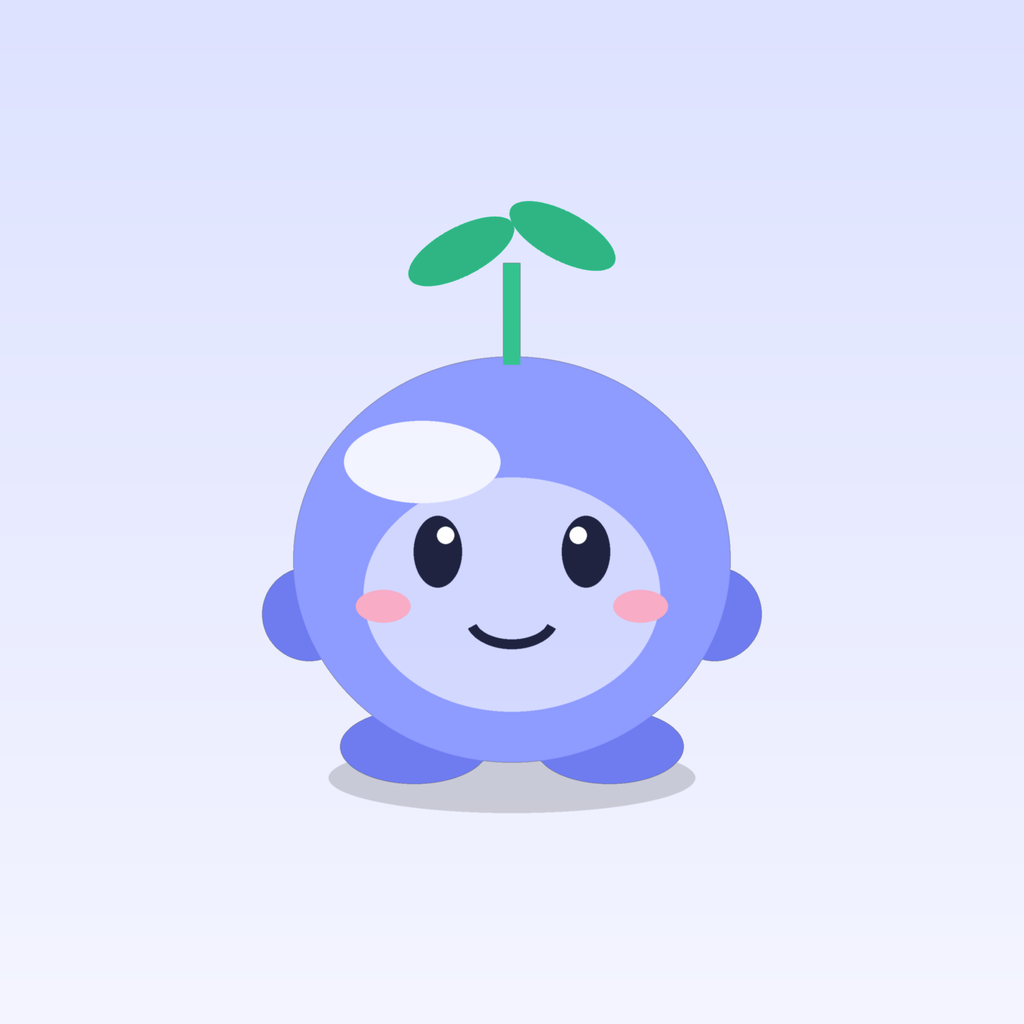
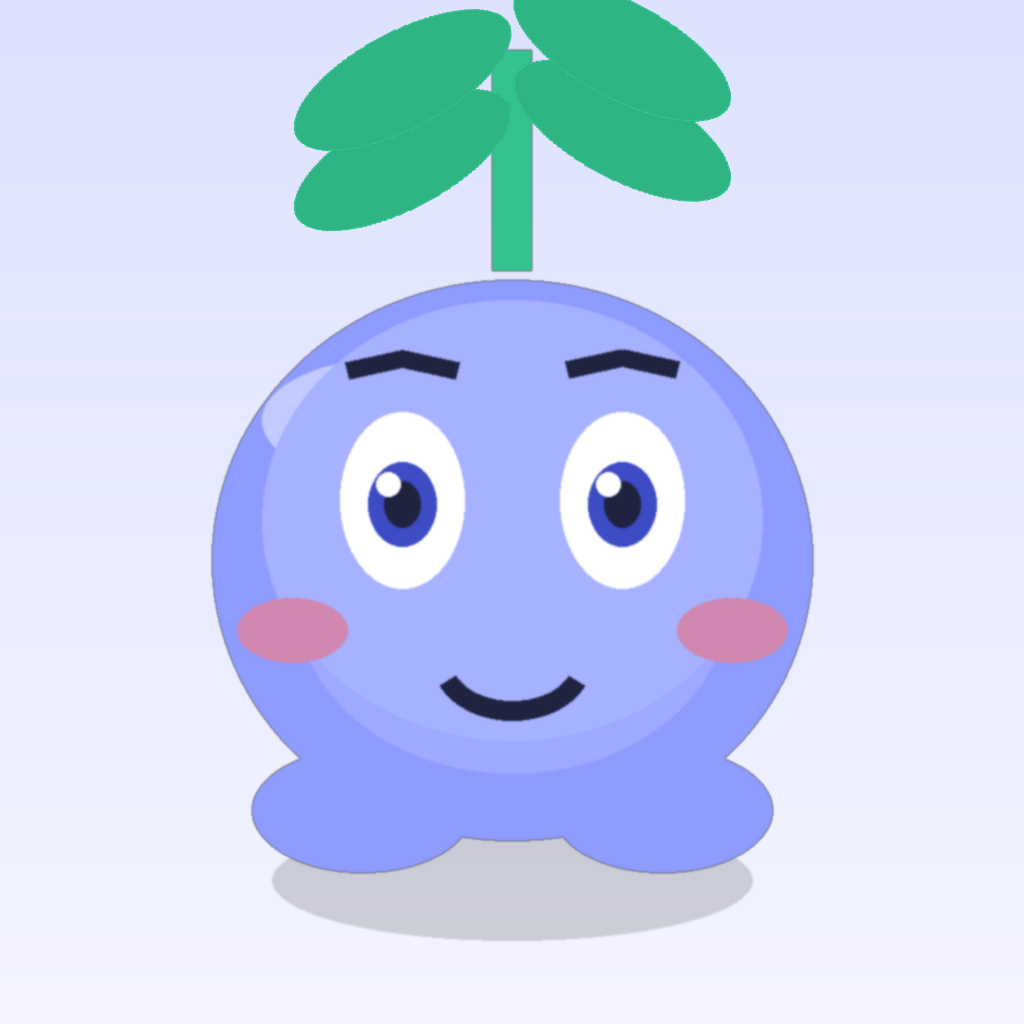
Phase 2: look-dev boards, branding finals, rig spec, third-party record

diff --git a/tools/make_logo.py b/tools/make_logo.py
@@ -1,0 +1,198 @@
+"""Milo logo + 2A look-dev reference mockups (PIL). The shipped character is the
+code-drawn v2 renderer; these PNGs are reference boards for the human's pick,
+approximating looks A/B/C in five expressions. Run: python tools/make_logo.py [--concept A|B|C]"""
+import math, os, sys
+from PIL import Image, ImageDraw, ImageFilter, ImageOps
+
+ROOT = os.path.dirname(os.path.dirname(os.path.abspath(__file__)))
+S = 1024
+BODY, INK, LEAF, STEM, IRIS = (142, 155, 255), (31, 35, 64), (47, 181, 132), (52, 195, 143), (61, 75, 196)
+BLUSH = (255, 122, 122)
+
+# look params: body rx/ry, eye scale, sprout length, legs?, cheek scale
+LOOKS = {'A': (300, 280, 1.0, 1.0, False, 1.0), 'B': (340, 250, 1.1, .55, False, 1.2), 'C': (260, 310, .95, 1.1, True, .9)}
+EXPRS = ['neutral', 'happy', 'curious', 'concerned', 'sleepy']
+
+def ell(d, cx, cy, rx, ry, fill):
+    d.ellipse((cx - rx, cy - ry, cx + rx, cy + ry), fill=fill)
+
+def rot_ell(img, cx, cy, rx, ry, ang, fill):
+    l = Image.new('RGBA', (rx * 2 + 8, ry * 2 + 8), (0, 0, 0, 0))
+    ImageDraw.Draw(l).ellipse((4, 4, rx * 2 + 4, ry * 2 + 4), fill=fill)
+    l = l.rotate(ang, expand=True, resample=Image.BICUBIC)
+    img.alpha_composite(l, (int(cx - l.width / 2), int(cy - l.height / 2)))
+
+def milo(look='A', expr='neutral', bg=None, px=S):
+    """Head-forward Milo with sprout, <=3 body tones + highlight, no text."""
+    brx, bry, es, sl, legs, ch = LOOKS[look]
+    img = Image.new('RGBA', (S, S), bg or (0, 0, 0, 0))
+    m = Image.new('RGBA', (S, S), (0, 0, 0, 0)); d = ImageDraw.Draw(m)
+    cx, cy = S // 2, 560
+    ell(d, cx, cy + bry + 40, brx - 60, 60, (0, 0, 0, 40))
+    if legs:
+        for sx in (-1, 1):
+            d.rounded_rectangle((cx + sx * 110 - 45, cy + bry - 60, cx + sx * 110 + 45, cy + bry + 90), 40, fill=BODY)
+            ell(d, cx + sx * 110, cy + bry + 90, 85, 50, BODY)
+    else:
+        for sx in (-1, 1):
+            ell(d, cx + sx * 150, cy + bry - 30, 110, 62, BODY)
+    ell(d, cx, cy, brx, bry, BODY)
+    ey = cy - 60
+    # Translucent shapes go on their own layer: ImageDraw *replaces* pixels,
+    # so drawing them on m would punch translucent holes to the background.
+    soft = Image.new('RGBA', (S, S), (0, 0, 0, 0)); ds = ImageDraw.Draw(soft)
+    ell(ds, cx, cy + 40, int(brx * .72), int(bry * .62), (178, 188, 255, 110))
+    ell(ds, cx - 120, cy - bry // 2, 130, 62, (255, 255, 255, 120))
+    ell(ds, cx, cy - 40, 250, 220, (255, 255, 255, 55))  # face patch
+    for sx in (-1, 1):
+        ell(ds, cx + sx * 220, ey + 130, 55 * ch, 32 * ch, BLUSH + (150,))
+    m.alpha_composite(soft)
+    eye_open = {'neutral': 1, 'happy': .25, 'curious': 1, 'concerned': .85, 'sleepy': .35}[expr]
+    for sx in (-1, 1):
+        ex = cx + sx * 110
+        if expr == 'happy':
+            d.arc((ex - 55, ey - 30, ex + 55, ey + 50), 195, 345, fill=INK, width=20)
+        else:
+            rx, ry = 62 * es, 80 * es * eye_open + 8
+            ell(d, ex, ey, rx, ry, (255, 255, 255, 255))
+            ell(d, ex, ey + 4, 34 * es, 36 * es * eye_open + 6, IRIS)
+            ell(d, ex, ey + 4, 18 * es, 19 * es * eye_open + 4, INK)
+            ell(d, ex - 14, ey - 16, 12, 12, (255, 255, 255, 255))
+            lid_h = 2 * ry * (1 - eye_open)
+            if lid_h > 2:  # curved lid, not a flat bar (flat reads stern)
+                ell(d, ex, ey - ry + lid_h * .45, rx * .98, lid_h * .55 + 8, BODY)
+    # brows: tapered arcs; inner = toward centre. concerned raises inner.
+    brow = {'neutral': (0, 0), 'happy': (-14, -6), 'curious': (-18, 6), 'concerned': (-2, -46), 'sleepy': (10, 6)}[expr]
+    for sx in (-1, 1):
+        ex = cx + sx * 110
+        outer = ey - 130 + brow[0] + (0 if sx > 0 else brow[1] if expr == 'curious' else 0)
+        inner = ey - 130 + brow[1] + (-36 if expr == 'curious' and sx > 0 else 0)
+        x0, x1 = (ex + 55, ex - 55) if sx > 0 else (ex - 55, ex + 55)
+        d.line((x0, outer, (x0 + x1) / 2, (outer + inner) / 2 - 12, x1, inner), fill=INK, width=18, joint='curve')
+    # mouth
+    my = ey + 170
+    if expr == 'happy':
+        d.pieslice((cx - 90, my - 60, cx + 90, my + 60), 10, 170, fill=(59, 30, 63, 255))
+        ell(d, cx, my + 30, 55, 22, (255, 143, 163, 255))
+    elif expr == 'concerned':
+        d.arc((cx - 70, my - 30, cx + 70, my + 50), 195, 345, fill=INK, width=18)
+    elif expr == 'sleepy':
+        d.line((cx - 45, my, cx + 45, my), fill=INK, width=16)
+    else:
+        d.arc((cx - 80, my - 70, cx + 80, my + 50), 25, 155, fill=INK, width=20)
+    # sprout: stem + two leaf pairs
+    top = cy - bry - 10
+    d.line((cx, top, cx, top - 220 * sl), fill=STEM, width=40)
+    m = m.filter(ImageFilter.GaussianBlur(1)); d = ImageDraw.Draw(m)
+    for i, yy in enumerate((top - 110 * sl, top - 190 * sl)):
+        rot_ell(m, cx - 110, yy, 120, 48, 28, LEAF + (255,))
+        rot_ell(m, cx + 110, yy - 30, 120, 48, -28, LEAF + (255,))
+    img.alpha_composite(m)
+    return img.resize((px, px), Image.LANCZOS) if px != S else img
+
+def contact_sheet():
+    """1024/192/96/48 px on light, dark, coloured + squint + greyscale rows."""
+    bgs = {'light': (233, 237, 255, 255), 'dark': (20, 23, 51, 255), 'color': (91, 108, 255, 255)}
+    sizes = [256, 192, 96, 48]
+    rows = []
+    for look in 'ABC':
+        row = []
+        for name, bg in bgs.items():
+            strip = Image.new('RGBA', (sum(sizes) + 60, 300), (255, 255, 255, 255))
+            x = 10
+            for sz in sizes:
+                im = milo(look, 'neutral', bg, px=sz)
+                strip.alpha_composite(im, (x, 300 - sz - 10)); x += sz + 10
+            row.append(strip)
+        base = milo(look, 'neutral', bgs['light'], px=256)
+        squint = base.resize((32, 32), Image.BILINEAR).resize((256, 256), Image.BILINEAR)
+        grey = ImageOps.grayscale(base).convert('RGBA')
+        tests = Image.new('RGBA', (256 * 2 + 30, 300), (255, 255, 255, 255))
+        tests.alpha_composite(squint, (10, 20)); tests.alpha_composite(grey, (276, 20))
+        row.append(tests)
+        rows.append(row)
+    W = sum(im.width for im in rows[0]) + 50
+    sheet = Image.new('RGBA', (W, 300 * 3 + 40), (255, 255, 255, 255)); dd = ImageDraw.Draw(sheet)
+    y = 10
+    for i, row in enumerate(rows):
+        x = 10; dd.text((x, y), 'Concept ' + 'ABC'[i], fill=(0, 0, 0, 255))
+        x = 90
+        for im in row:
+            sheet.alpha_composite(im, (x, y)); x += im.width + 10
+        y += 310
+    return sheet
+
+def lookdev():
+    """3 looks x 5 expressions x 4 sizes (56/96/160/320 dp at 3x)."""
+    out = os.path.join(ROOT, 'docs', 'upgrade', 'phase2'); os.makedirs(out, exist_ok=True)
+    for look in 'ABC':
+        for expr in EXPRS:
+            for dp in (56, 96, 160, 320):
+                milo(look, expr, (233, 237, 255, 255), px=dp * 3).convert('RGB').save(
+                    os.path.join(out, 'lookdev_%s_%s_%d.png' % (look, expr, dp)))
+    contact_sheet().convert('RGB').save(os.path.join(out, 'contact_sheet.png'))
+    print('lookdev written: 60 + contact sheet')
+
+SVG_MARK = '''<svg xmlns="http://www.w3.org/2000/svg" viewBox="0 0 512 512">
+<!-- Milo mark master (concept %(look)s lineage). Body <=3 tones + highlight. -->
+<ellipse cx="256" cy="290" rx="%(brx)d" ry="%(bry)d" fill="#8E9BFF"/>
+<ellipse cx="256" cy="310" rx="%(belly)d" ry="%(bellyry)d" fill="#B2BCFF" opacity="0.45"/>
+<ellipse cx="206" cy="220" rx="65" ry="31" fill="#FFFFFF" opacity="0.47"/>
+<ellipse cx="256" cy="270" rx="125" ry="110" fill="#FFFFFF" opacity="0.22"/>
+<ellipse cx="201" cy="260" rx="31" ry="40" fill="#FFFFFF"/>
+<ellipse cx="311" cy="260" rx="31" ry="40" fill="#FFFFFF"/>
+<circle cx="201" cy="262" r="17" fill="#3D4BC4"/><circle cx="311" cy="262" r="17" fill="#3D4BC4"/>
+<circle cx="201" cy="262" r="9" fill="#1F2340"/><circle cx="311" cy="262" r="9" fill="#1F2340"/>
+<circle cx="194" cy="254" r="6" fill="#FFFFFF"/><circle cx="304" cy="254" r="6" fill="#FFFFFF"/>
+<ellipse cx="146" cy="325" rx="27" ry="16" fill="#FF7A7A" opacity="0.6"/>
+<ellipse cx="366" cy="325" rx="27" ry="16" fill="#FF7A7A" opacity="0.6"/>
+<path d="M216 345 Q256 385 296 345" stroke="#1F2340" stroke-width="10" fill="none" stroke-linecap="round"/>
+<path d="M256 %(top)d L256 %(tip)d" stroke="#34C38F" stroke-width="20" stroke-linecap="round"/>
+<ellipse cx="196" cy="%(leaf1)d" rx="60" ry="24" fill="#2FB584" transform="rotate(28 196 %(leaf1)d)"/>
+<ellipse cx="316" cy="%(leaf2)d" rx="60" ry="24" fill="#2FB584" transform="rotate(-28 316 %(leaf2)d)"/>
+</svg>
+'''
+SVG_WORD = '''<svg xmlns="http://www.w3.org/2000/svg" viewBox="0 0 400 120">
+<!-- Milo wordmark master. Set in Lexend SemiBold; convert to outlines before print. -->
+<text x="200" y="82" text-anchor="middle" font-family="Lexend, sans-serif" font-weight="600" font-size="72" fill="#1F2340">milo</text>
+<circle cx="352" cy="34" r="10" fill="#34C38F"/>
+</svg>
+'''
+
+def finals(look):
+    b = os.path.join(ROOT, 'assets', 'branding'); src = os.path.join(b, 'src'); os.makedirs(src, exist_ok=True)
+    brx, bry = {'A': (150, 140), 'B': (170, 125), 'C': (130, 155)}[look]
+    top = 290 - bry - 5
+    open(os.path.join(src, 'milo_mark.svg'), 'w').write(SVG_MARK % {'look': look, 'brx': brx, 'bry': bry,
+        'belly': int(brx * .72), 'bellyry': int(bry * .62), 'top': top, 'tip': top - 110,
+        'leaf1': top - 55, 'leaf2': top - 85})
+    open(os.path.join(src, 'milo_wordmark.svg'), 'w').write(SVG_WORD)
+    bg = Image.new('RGBA', (S, S))
+    for y in range(S):
+        t = y / S
+        ImageDraw.Draw(bg).line((0, y, S, y), fill=(int(221 + 23 * t), int(226 + 19 * t), 255, 255))
+    full = bg.copy(); full.alpha_composite(milo(look, 'neutral', None))
+    full.convert('RGB').resize((1024, 1024), Image.LANCZOS).save(os.path.join(b, 'icon.png'))
+    fg = milo(look, 'neutral', None); fg.thumbnail((700, 700), Image.LANCZOS)
+    canvas = Image.new('RGBA', (1024, 1024), (0, 0, 0, 0))
+    canvas.alpha_composite(fg, ((1024 - fg.width) // 2, (1024 - fg.height) // 2))
+    canvas.save(os.path.join(b, 'icon_fg.png'))
+    mono = fg.convert('L').point(lambda v: 255 if v > 10 else 0).convert('RGBA')
+    mono.putalpha(fg.split()[3])  # silhouette alpha from the mark
+    white = Image.new('RGBA', (1024, 1024), (255, 255, 255, 0))
+    white.paste(Image.new('RGBA', mono.size, (255, 255, 255, 255)), (0, 0), mono.split()[3])
+    white.save(os.path.join(b, 'icon_mono.png'))
+    noti = white.resize((96, 96), Image.LANCZOS); noti.save(os.path.join(b, 'icon_noti.png'))
+    splash = Image.new('RGBA', (1152, 1152), (233, 237, 255, 255))
+    sp = milo(look, 'neutral', None, px=640)
+    splash.alpha_composite(sp, ((1152 - 640) // 2, (1152 - 640) // 2))
+    splash.convert('RGB').save(os.path.join(b, 'splash.png'))
+    print('branding finals written (concept %s)' % look)
+
+if __name__ == '__main__':
+    look = 'A'
+    for i, a in enumerate(sys.argv):
+        if a == '--concept' and i + 1 < len(sys.argv) and sys.argv[i + 1] in 'ABC':
+            look = sys.argv[i + 1]
+    lookdev()
+    finals(look)

diff --git a/docs/CHARACTER_RIG_SPEC.md b/docs/CHARACTER_RIG_SPEC.md
@@ -1,0 +1,62 @@
+# Milo character rig spec (for a future Rive asset)
+
+The shipped Milo is the code-drawn v2 renderer (`lib/companion/v2/milo2.dart`).
+This spec exists so a Rive asset can replace it later **without touching the
+Director**: the `.riv` state machine must accept the same inputs the v2
+renderer reads from `DirectorFrame`, and `RiveRenderer`
+(`lib/companion/v2/rive_stub.dart`) becomes the adapter. Do not add the
+`rive` dependency until a real, properly licensed `.riv` file exists.
+
+## Layer names
+
+`shadow | legs | feet | body | armL | armR | sproutStem | leafL1 | leafR1 |
+leafL2 | leafR2 | head | facePatch | cheekL | cheekR | eyeL | eyeR | lidUpL |
+lidUpR | lidLoL | lidLoR | browL | browR | mouth | fx | particles`
+
+Eyes are nested artboards: `eye` contains `sclera | iris | pupil | hi1 | hi2`.
+Brows are tapered-arc shapes with skewable inner/outer bones.
+
+## State-machine inputs (1:1 with DirectorFrame channels)
+
+| Input | Type | Range | Source |
+|---|---|---|---|
+| `gazeX`, `gazeY` | number | -1..1 | `eyeX`, `eyeY` |
+| `headX`, `headY` | number | design units | `headX`, `headY` |
+| `eyeOpen` | number | 0.05..1.4 | `blinkOpen` (+ listening widen) |
+| `browInnerL/R`, `browOuterL/R` | number | design units | `browEnds(face)` + curious asym on R |
+| `mouthOpen` | number | 0..1.2 | `mouth` (audio envelope in Phase 4) |
+| `mouthSmile` | number | -1..1 | `face.smile` |
+| `mouthShape` | number (enum 0..8) | `MouthShape` order | `mouthShape()` |
+| `breath` | number | -1..1 | `breath` |
+| `lean` | number | radians | `lean` |
+| `armL`, `armR` | number | radians | `armL`, `armR` + clip channels |
+| `sprout1..3` | number | radians | `s1..s3` |
+| `hop`, `squash` | number | design units | `hop`, `squash` |
+| `clipTilt/Dip/Zoom/Jig/Yawn/Lean` | number | mixed | `ch*` channels |
+| `fx` | text | `dots/arcs/zzz/spark/''` | `fx` |
+| `listening`, `happyEyes`, `tongue` | boolean | — | same names |
+| `micLevel` | number | 0..1 | `micLevel` |
+| `bodyColor` | color | — | `color` (3 tones derived by lightness ±) |
+| `lod` | number (enum 0..2) | full/bust/avatar | `lod` |
+
+## Clips (names + durations, seconds)
+
+`wave 1.2, nod .6, shrug .9, point 1.0, lean_in 1.0, think 1.6, celebrate 2.2,
+giggle .9, yawn 2.0, stretch 1.8, hum 1.5, dizzy 1.2, pet 1.5, tilt_head 1.0,
+clap 1.1, lean_back 1.2, thinking_hmm 1.8, soft_sigh 1.6, peek 1.2`
+(Director `_dur` is the single source; keep in sync.)
+
+## Mouth and eye shape sets
+
+Mouth: rest, smile, big smile, open A, open O, closed M/B/P, small frown,
+flat, tongue — interpolated by (`mouthSmile`, `mouthOpen`).
+Eyes: open (sclera/iris/pupil/2 highlights), happy-squint arcs, lidded
+(upper + lower lids by `eyeOpen`), blink (160 ms, ±40 ms asymmetry).
+
+## Export settings and budgets
+
+Rive runtime (not Rive Lite); 60 fps; vector only, no embedded raster;
+state machine on the main artboard. File-size budget: ≤ 300 KB. Colourways:
+re-tint `bodyColor` only (see `colorways()`). Licence: the `.riv` must be
+commissioned or created in-house with full rights; record the grant in
+`docs/THIRD_PARTY.md`. Never ship AI-generated raster art as the character.

diff --git a/docs/THIRD_PARTY.md b/docs/THIRD_PARTY.md
@@ -1,0 +1,55 @@
+# Third-party components
+
+Free and open-source only (brief §7). Paid vendors appear solely as
+user-connected providers (own key); nothing paid is required to run the app.
+Licences below were recorded from the package registry / repo; re-verify on
+upgrade. Checked 28 Oct 2026 or earlier (see per-entry notes).
+
+## Flutter dependencies (pubspec.yaml)
+
+All from pub.dev; licences as published by the package authors.
+
+| Package | Version | Licence | Notes |
+|---|---|---|---|
+| flutter_riverpod | ^2.5.1 | MIT | state management (pre-existing) |
+| flutter_tts | ^4.0.2 | MIT | platform TTS, incl. offline fallback (pre-existing) |
+| record | ^6.0.0 | MIT | mic recording (pre-existing) |
+| sensors_plus | ^5.0.1 | BSD-3 | accelerometer tilt/shake (pre-existing) |
+| dio | ^5.7.0 | MIT | HTTP client (pre-existing) |
+| web_socket_channel | ^3.0.1 | BSD-3 | voice WebSocket (pre-existing) |
+| image_picker | ^1.1.2 | Apache-2.0 | photo fallback (pre-existing) |
+| image | ^4.2.0 | MIT | EXIF strip / resize (pre-existing) |
+| google_mlkit_text_recognition | ^0.13.1 | Apache-2.0 | on-device OCR (pre-existing) |
+| flutter_secure_storage | ^10.0.0 | BSD-3 | keychain/keystore (pre-existing) |
+| cryptography | ^2.7.0 | Apache-2.0 | E2EE sync crypto (pre-existing) |
+| crypto | ^3.0.3 | BSD-3 | hashing (pre-existing) |
+| sqflite_sqlcipher | ^3.1.0+1 | MIT | encrypted DB (pre-existing) |
+| path | ^1.9.0 | BSD-3 | path join (pre-existing) |
+| connectivity_plus | ^6.0.5 | BSD-3 | offline detection (pre-existing) |
+| package_info_plus | ^10.2.2 | BSD-3 | version row (pre-existing) |
+| url_launcher | ^6.3.0 | BSD-3 | tel: dialer (pre-existing) |
+| file_picker | ^12.0.0 | MIT | Understand-screen import (pre-existing) |
+| flutter_launcher_icons | ^0.14.1 | MIT | dev: icon gen (pre-existing) |
+| flutter_native_splash | ^2.4.1 | MIT | dev: splash gen (pre-existing) |
+
+No new Flutter dependencies in Phases 0–2. The audio-playback package for
+`assets/sounds/` is NOT yet chosen (needs network to resolve a version);
+`lib/companion/sounds.dart` documents the provisional `audioplayers` pick.
+
+## Gateway dependencies (gateway/requirements)
+
+FastAPI/uvicorn/pydantic/httpx/pytest stack plus `openai` SDK (all
+MIT/Apache-2.0/BSD, pre-existing). No new gateway dependencies in Phases 0–2.
+
+## Fonts (assets/fonts, OFL licence texts shipped alongside)
+
+Lexend, Atkinson Hyperlegible, OpenDyslexic — all SIL Open Font License 1.1
+(pre-existing).
+
+## Generated assets (no licence issue: scripted, no samples)
+
+- `assets/sounds/*.wav`: synthesized by `tools/make_sounds.py` (stdlib only).
+- `assets/branding/*`: generated by `tools/make_logo.py` (Pillow, HPND licence,
+  dev-tooling only, not shipped in the app).
+- 2A reference mockups (`docs/upgrade/phase2/lookdev_*`): PIL-drawn boards for
+  the human pick only. The shipped character is code-drawn vector.

diff --git a/docs/upgrade/phase2/score_form.md b/docs/upgrade/phase2/score_form.md
@@ -1,0 +1,31 @@
+# Milo expression blind test — score form (Phase 2 acceptance)
+
+Target: ≥ 80% correct on the 8 core emotions, and **zero** "angry" labels for
+happy, curious, thinking and encouraging. 5 people, each shown the 8 faces.
+
+## How to run it
+
+1. Open Milo Lab (long-press the version in More → About).
+2. Set renderer v2 + the picked look.
+3. Pose each emotion below (tap the chip), screenshot the buddy preview at the
+   same size, crop to the face. `expression_sheet_A.png` shows the format
+   (it holds the 5 PIL reference expressions, not the shipped renderer).
+4. Show the 8 crops in random order. Ask: "How is Milo feeling?" Record the
+   exact word. Never prompt with the emotion list.
+
+## Score sheet
+
+| # | Shown | P1 | P2 | P3 | P4 | P5 | Correct /5 |
+|---|---|---|---|---|---|---|---|
+| 1 | happy | | | | | | /5 |
+| 2 | excited | | | | | | /5 |
+| 3 | curious | | | | | | /5 |
+| 4 | thinking | | | | | | /5 |
+| 5 | encouraging | | | | | | /5 |
+| 6 | proud | | | | | | /5 |
+| 7 | concerned | | | | | | /5 |
+| 8 | sleepy | | | | | | /5 |
+
+"Angry" labels for happy/curious/thinking/encouraging: ___ (must be 0).
+
+Result: ___ /40 correct (target ≥ 32).

diff --git a/docs/SETUP.md b/docs/SETUP.md
@@ -1,5 +1,12 @@
 # Milo: detailed setup
 
+> Windows `cmd` note: the bash snippets below use `export`/`source`; in `cmd`
+> use `set VAR=value`, `docker compose ...`, `python -m ...`. venv activate:
+> `.venv\Scripts\activate.bat`. Asset regeneration (all `cmd`-ready):
+> `python tools\make_sounds.py`, `python tools\make_logo.py [--concept A|B|C]`,
+> then `dart run flutter_launcher_icons` and
+> `dart run flutter_native_splash:create`.
+
 Milo is two deployable pieces plus an optional sync channel:
 
 ```
